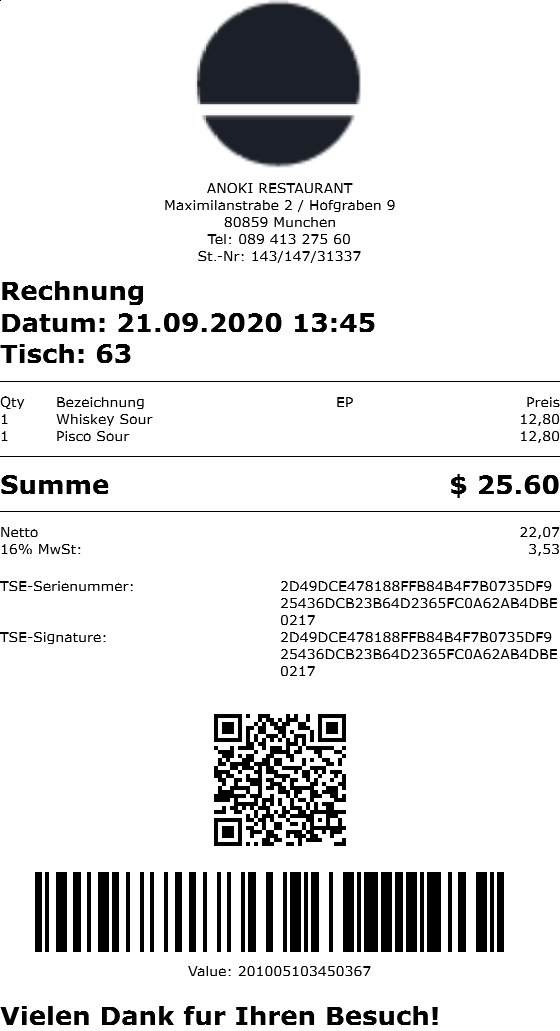
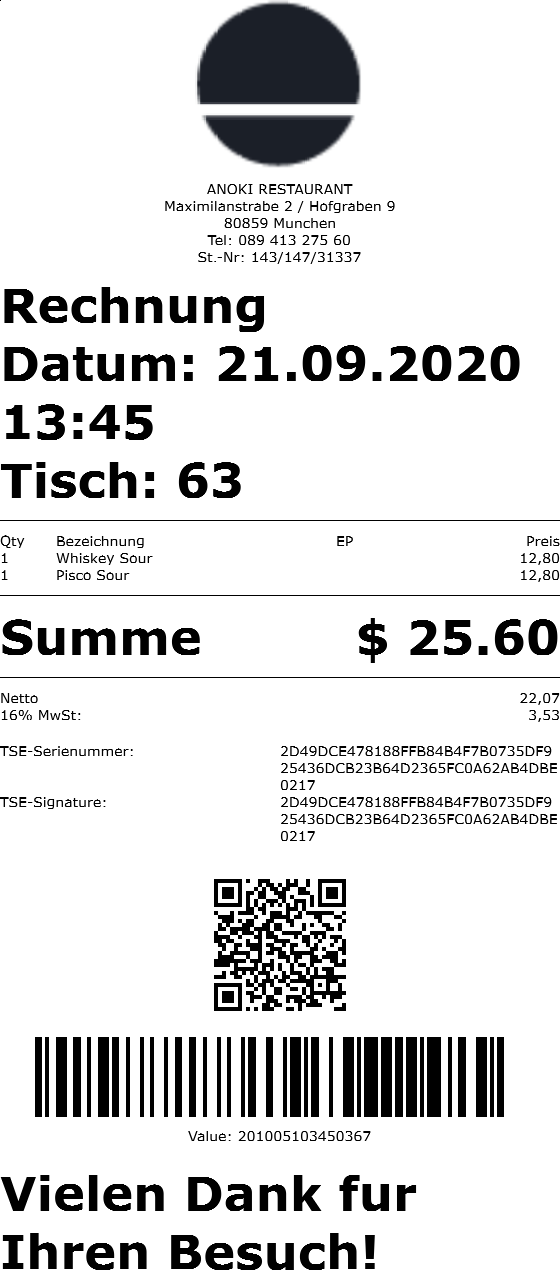
Fix a bug with canvas-txt if table column < width of a single character

diff --git a/src/pureimage-api.js b/src/pureimage-api.js
@@ -84,7 +84,7 @@ class PureImagePrinter {
   }
 
   setTextDoubleHeight() {
-    this.fontSize = Math.round(DEFAULT_FONT_SIZE * 1.1);
+    this.fontSize = Math.round(DEFAULT_FONT_SIZE * 2);
     this.newLineFontSize = DEFAULT_NEW_LINE_FONT_SIZE * 2;
   }
 
@@ -94,7 +94,7 @@ class PureImagePrinter {
   }
 
   setTextQuadArea() {
-    this.fontSize = Math.round(DEFAULT_FONT_SIZE * 1.1);
+    this.fontSize = Math.round(DEFAULT_FONT_SIZE * 2);
     this.newLineFontSize = DEFAULT_NEW_LINE_FONT_SIZE * 2;
   }
 
@@ -140,21 +140,36 @@ class PureImagePrinter {
   tableCustom(columns) {
     const currentPrintX = this.currentPrintX;
 
-    const heights = columns.map(column => {
+    // for fixing a bug of canvas-txt relating to paragraph width < single character width, causing infinite while loop
+    // this variable is for ensuring total paragraph width doesn't become larger than canvas width
+    let totalParagraphWidthExtension = 0;
+
+    const heights = columns.map((column, index) => {
+      // NOTE: use for loop if this uses async function, this requires functions being executed sequentially
       let {text, align, width} = column;
 
       if (width < 0) width = 0;
       else if (width > 1) width = 1.0;
 
-      const paragraphLayoutWidth = this.printWidth * width;
+      let paragraphLayoutWidth = this.printWidth * width;
       const currentTextAlign = this.textAlign;
+
+      if (index === columns.length - 1 && totalParagraphWidthExtension > 0) {
+        paragraphLayoutWidth -= Math.round(totalParagraphWidthExtension);
+        totalParagraphWidthExtension = 0;
+      }
 
       if (align.toUpperCase() === 'LEFT') this.textAlign = 'left';
       else if (align.toUpperCase() === 'RIGHT') this.textAlign = 'right';
       else if (align.toUpperCase() === 'CENTER') this.textAlign = 'center';
 
-      const paragraphHeight = this._drawParagraph(text, this.currentPrintX, this.currentPrintY, paragraphLayoutWidth);
-      this.currentPrintX += paragraphLayoutWidth;
+      const {height: paragraphHeight, width: paragraphWidth} =
+        this._drawParagraph(text, this.currentPrintX, this.currentPrintY, paragraphLayoutWidth);
+
+      const paragraphWidthExtension = paragraphWidth - paragraphLayoutWidth;
+      if (paragraphWidthExtension > 0) totalParagraphWidthExtension += paragraphWidthExtension;
+
+      this.currentPrintX += paragraphWidth;
 
       this.textAlign = currentTextAlign;
       return paragraphHeight;
@@ -174,7 +189,7 @@ class PureImagePrinter {
   }
 
   println(text) {
-    const paragraphHeight = this._drawParagraph(text, this.currentPrintX, this.currentPrintY, this.printWidth);
+    const {height: paragraphHeight} = this._drawParagraph(text, this.currentPrintX, this.currentPrintY, this.printWidth);
     // this.currentPrintY += paragraphHeight;
     this._increasePrintY(paragraphHeight);
   }
@@ -321,13 +336,14 @@ class PureImagePrinter {
     CanvasTxt.align = this.textAlign;
     CanvasTxt.fontSize = this.fontSize;
     this.canvasContext.fillStyle = "black";
-    const {height} = CanvasTxt.drawText(this.canvasContext, text, x, y, layoutWidth, this.fontSize);
+    const {height, width} = CanvasTxt.drawText(this.canvasContext, text, x, y, layoutWidth, this.fontSize);
 
-    return height;
+    return {height, width};
   }
 
   _increasePrintY(value) {
     this.currentPrintY += value;
+    this.currentPrintY = Math.round(this.currentPrintY);
 
     if (this.currentPrintY + CANVAS_HEIGHT_RESIZING_REMAINING >= this.canvas.height) {
       this.canvas.height += CANVAS_HEIGHT_EXTENSION;

diff --git a/src/canvas-txt.js b/src/canvas-txt.js
@@ -31,7 +31,7 @@ const canvasTxt = {
     }
 
     // End points
-    const xEnd = x + width
+    let xEnd = x + width
     const yEnd = y + height
 
     if (this.textSize) {
@@ -59,6 +59,15 @@ const canvasTxt = {
     } else {
       textanchor = x + width / 2
       ctx.textAlign = 'center'
+    }
+
+    const firstCharacterWidth = ctx.measureText(mytext.substr(0, 1)).width;
+    if (firstCharacterWidth >= width) {
+      width = Math.floor(firstCharacterWidth) + 1;
+      xEnd = x + width;
+
+      if (this.align === 'right') textanchor = xEnd;
+      else if (this.align !== 'right' && this.align !== 'left') textanchor = Math.floor(x + width / 2);
     }
 
     //added one-line only auto linebreak feature
@@ -164,7 +173,7 @@ const canvasTxt = {
 
     const TEXT_HEIGHT = vheight + charHeight
 
-    return { height: TEXT_HEIGHT }
+    return { height: TEXT_HEIGHT, width }
   },
   // Calculate Height of the font
   getTextHeight: function(ctx, text, style) {
